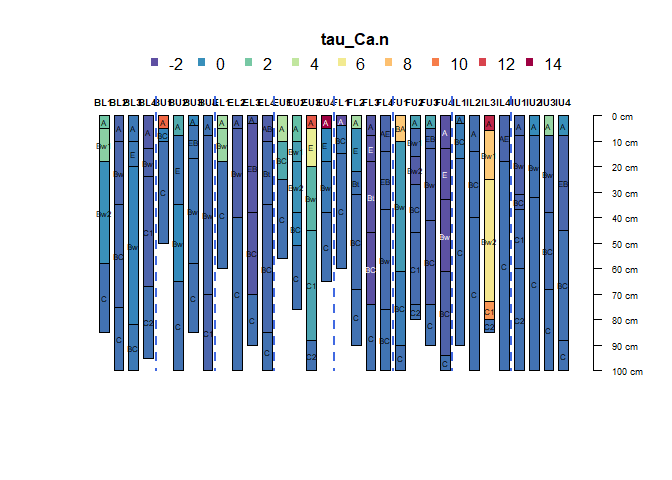
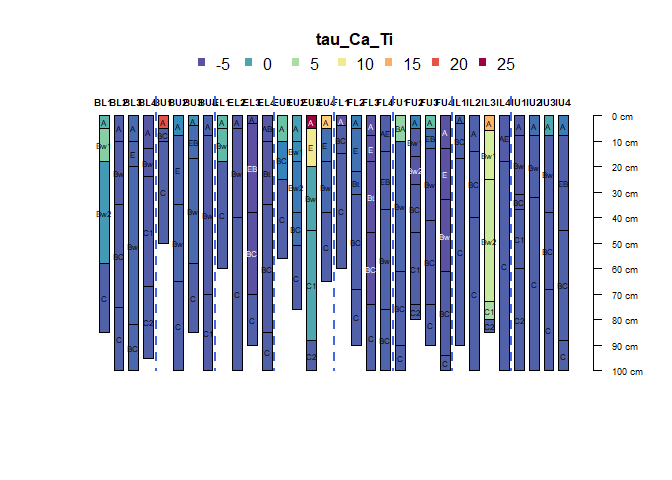
Add files via upload

diff --git a/R/massbalance_intro.md b/R/massbalance_intro.md
@@ -1,7 +1,7 @@
 Soil Constituent Mass Balance
 ================
 S.W. Salley
-2023-10-02
+2023-10-03
 
 - <a href="#introduction" id="toc-introduction">Introduction</a>
 - <a href="#fraser-experimental-forest"
@@ -122,11 +122,10 @@ as an insoluble host mineral of immobile element (usually Titanium or
 Zirconium). Positive strains infer dilation and negative strains
 represent collapse. Strain (ε i,w) is defined as:
 
-$$ ε_{i.ws} =  \frac{ρ_{pm} C_{i,pm}}{ρ_{ws} C_{i,ws}} - 1 $$
-
-where ρ is soil bulk density, Ci is the concentration of an (i) immobile
-reference element in the (ws) weathered soil horizon or the p the (pm)
-soil parent material.
+$$ ε_{i.ws} =  \frac{ρ_{pm} C_{i,pm}}{ρ_{ws} C_{i,ws}} - 1 $$ where ρ is
+soil bulk density, Ci is the concentration of an (i) immobile reference
+element in the (ws) weathered soil horizon or the p the (pm) soil parent
+material.
 
 The following function can be used to compute volumetric strain for soil
 horizons based on immobile reference on soil data where the lowest
@@ -134,26 +133,33 @@ horizon for each pedon is considered the parent material of the soil:
 
 ``` r
 Strain <- function(x, bulkdensity, iref) { 
-  x$pm.i <- profileApply(x, FUN= function(x)
-    {tail(x[[bulkdensity]], 1) * tail(x[[iref]], 1) })
-  x.strain <- profileApply(x, FUN= function(x) 
-    { (x$pm.i) / (x[[bulkdensity]] * x[[iref]] ) -1  } )
-  print(c(x.strain, use.names =F))
+  x@horizons$strain <- profileApply(x, FUN= function(x) { 
+    ((tail(x[[bulkdensity]], 1) * tail(x[[iref]]/1000, 1)) / 
+       (x[[bulkdensity]] * x[[iref]]/1000)) -1  } )
+  x$strain 
 }
 ```
 
-Now calculate the elemental strain using Titanium (Ti) as the immobile
-reference. Note that the lowest depth for each pedon is has a zero
-volume change.
+Now calculate the elemental strain for Titanium (Ti) and Zirconium (Zr)
+as the immobile reference. Note that the lowest depth for each pedon is
+has a zero volume change.
 
 ``` r
 h$Ti_strain <- Strain(h, "BD","Ti_ppm")
+h$Zr_strain <- Strain(h, "BD","Zr_ppm")
 #
 groupedProfilePlot(trunc(h, 0, 100), groups = 'group', color = 'Ti_strain', id.style = 'top', width = 0.33, 
                    name.style = 'center-center', group.name.offset = -15)
 ```
 
 ![](massbalance_intro_files/figure-gfm/unnamed-chunk-5-1.png)<!-- -->
+
+``` r
+groupedProfilePlot(trunc(h, 0, 100), groups = 'group', color = 'Zr_strain', id.style = 'top', width = 0.33, 
+                   name.style = 'center-center', group.name.offset = -15)
+```
+
+![](massbalance_intro_files/figure-gfm/unnamed-chunk-5-2.png)<!-- -->
 
 ## Mass Transfer
 
@@ -175,12 +181,11 @@ horizons based on immobile reference on soil data and where the lowest
 horizon for each pedon is considered the parent material of the soil:
 
 ``` r
-MassTransfer <- function(x, Strain, bulkdensity, mobile) { 
-  x$pm.i <- profileApply(x, FUN = function(x) {
-    tail(x[[bulkdensity]], 1) * tail(x[[mobile]], 1) })
-  x.MassT <-profileApply(x, FUN = function(x) { 
-    (x[[bulkdensity]] * x[[mobile]] / x$pm.i) * (x[[Strain]] + 1) - 1})
-  print(c(x.MassT, use.names =F))
+MassTransfer <- function(x, bulkdensity, iref, mobile) { 
+  x@horizons$MassT <-profileApply(x, FUN = function(x) { 
+    ((x[[mobile]] * tail(x[[iref]], 1)) /
+    (x[[iref]] * tail(x[[mobile]], 1)) ) -1 })
+  x$MassT
 }
 ```
 
@@ -188,9 +193,9 @@ Now calculate the mass transfer of the mobile cation Calcium (ca) using
 Titanium (Ti) as the index, or immobile reference.
 
 ``` r
-h$tau_Ca.n <- MassTransfer(h, "Ti_strain", "BD", "Ca_ppm")
+h$tau_Ca_Ti <- MassTransfer(h, "Ti_strain", "BD", "Ca_ppm")
 #
-groupedProfilePlot(trunc(h, 0, 100), groups = 'group', color = 'tau_Ca.n', id.style = 'top', width = 0.33, 
+groupedProfilePlot(trunc(h, 0, 100), groups = 'group', color = 'tau_Ca_Ti', id.style = 'top', width = 0.33, 
                    name.style = 'center-center', group.name.offset = -15)
 ```
 
@@ -215,22 +220,25 @@ horizons based on immobile reference on soil data and where the lowest
 horizon for each pedon is considered the parent material of the soil:
 
 ``` r
-MassFlux <- function(x, Strain, MassFlux, bulkdensity, mobile) { 
-  x@horizons$hz.z <- x[[x@depthcols[2] ]] - x[[x@depthcols[1] ]] 
-  x@site$s.z <- profileApply(x, FUN = function(x) {tail(x[[x@depthcols[1]]], 1)}) 
-  x@horizons$hz.p <- profileApply(x, FUN = function(x) { x$hz.z / x$s.z })
-  x@horizons$flux <- x@horizons$hz.p * x@horizons[[MassFlux]]
-  x$flux
-}  
+MassFlux <- function(x, Strain, MassTrans, bulkdensity, mobile) { 
+  x@horizons$flux <- profileApply(x, FUN = function(x) { 
+    tail(x[[bulkdensity]], 1)  *
+    tail(x[[mobile]]/1000, 1) *
+    x[[MassTrans]] *
+    ((x[[x@depthcols[2] ]] - x[[x@depthcols[1] ]] )/100) *
+    (1/(x[[Strain]]+1)) }) 
+  x$flux 
+}
 ```
 
 Now calculate the horizon Ca mass flux, using Strain() calculation with
 Ti as the immobile reference
 
 ``` r
-h$Ca_mf <- MassFlux(h, "Ti_strain", "tau_Ca.n", "BD", "Ca_ppm")
+round(MassFlux(h, "Ti_strain", "tau_Ca_Ti", "BD", "Ca_ppm"),3)
+h$Ca_Massflux <- round(MassFlux(h, "Ti_strain", "tau_Ca_Ti", "BD", "Ca_ppm"),3)
 #
-groupedProfilePlot(trunc(h, 0, 100), groups = 'group', color = 'Ca_mf', id.style = 'top', width = 0.33, 
+groupedProfilePlot(trunc(h, 0, 100), groups = 'group', color = 'Ca_Massflux', id.style = 'top', width = 0.33, 
                    name.style = 'center-center', group.name.offset = -15)
 ```
 
@@ -238,23 +246,12 @@ groupedProfilePlot(trunc(h, 0, 100), groups = 'group', color = 'Ca_mf', id.style
 
 The following function can be used to compute mass flux for soil pedons
 based on immobile reference on soil data and where the lowest horizon
-for each pedon is considered the parent material of the soil:
+for each pedon is considered the parent material of the soil to
+calculate pedon mass flux.
 
 ``` r
-MassFluxP <- function(x, Strain, MassFlux, bulkdensity, mobile) { 
-  x@horizons$hz.z <- x[[x@depthcols[2] ]] - x[[x@depthcols[1] ]] 
-  x@site$s.z <- profileApply(x, FUN = function(x) {tail(x[[x@depthcols[1]]], 1)}) 
-  x@horizons$hz.p <- profileApply(x, FUN = function(x) { x$hz.z / x$s.z }) 
-  x@horizons$flux <- x@horizons$hz.p * x@horizons[[MassFlux]]
-  x$pflux <- profileApply(x, FUN = function(x) { sum(x$flux)})
-  x$pflux
-}  
-```
-
-now calculate pedon mass flux.
-
-``` r
-h@site$Ca_SiteMF <- MassFluxP(h, "Ti_strain", "tau_Ca.n", "BD", "Ca_ppm")
+profileApply(h, FUN = function(x) { sum(x$Ca_Massflux) -1 })
+h$pflux <- profileApply(h, FUN = function(x) { sum(x$Ca_Massflux) -1 })
 ```
 
 # Test Calculaions published values
@@ -271,35 +268,35 @@ summary(lm ( h$Ti_strain ~ h$epsilon_Ti ))$r.squared # r2 = 0.9992367 (success!)
 plot ( x = h$Ti_strain, y = h$epsilon_Ti ) 
 ```
 
-![](massbalance_intro_files/figure-gfm/unnamed-chunk-12-1.png)<!-- -->
+![](massbalance_intro_files/figure-gfm/unnamed-chunk-11-1.png)<!-- -->
 
 Transfer function
 
 ``` r
-summary(lm ( h$tau_ca ~ h$Ca_mf ))$r.squared # r2 = 0.6716875 (hmmm...)
+summary(lm ( h$tau_ca ~ h$tau_Ca_Ti ))$r.squared # r2 = 0.6716875 (hmmm...)
 ```
 
-    ## [1] 0.6716875
+    ## [1] 0.3881817
 
 ``` r
-plot ( x = h$tau_ca, y = h$Ca_mf ) 
+plot ( x = h$tau_ca, y = h$tau_Ca_Ti ) 
 ```
 
-![](massbalance_intro_files/figure-gfm/unnamed-chunk-13-1.png)<!-- -->
+![](massbalance_intro_files/figure-gfm/unnamed-chunk-12-1.png)<!-- -->
 
 Mass flux
 
 ``` r
-summary(lm ( h$tau_pedon_Ca  ~ h$Ca_SiteMF ))$r.squared # r2 = 0.2507 (hmmm...)
+summary(lm ( h$tau_pedon_Ca  ~ h$pflux ))$r.squared # r2 = 0.2507 (hmmm...)
 ```
 
-    ## [1] 0.2507999
+    ## [1] 0.0876191
 
 ``` r
-plot ( x = h$tau_pedon_Ca, y = h$Ca_SiteMF ) 
+plot ( x = h$tau_pedon_Ca, y = h$pflux ) 
 ```
 
-![](massbalance_intro_files/figure-gfm/unnamed-chunk-14-1.png)<!-- -->
+![](massbalance_intro_files/figure-gfm/unnamed-chunk-13-1.png)<!-- -->
 
 # Immobile Reference
 
